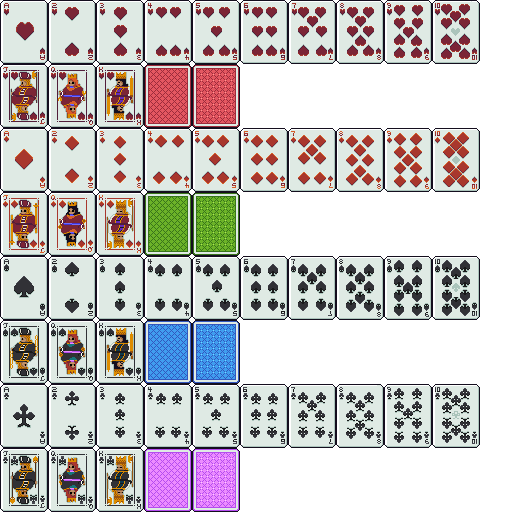
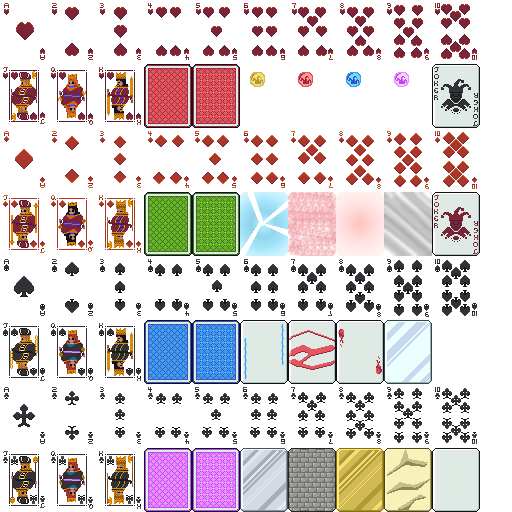
Add card enhancement rendering

diff --git a/gfx.c b/gfx.c
@@ -8,12 +8,21 @@
 #include "system.h"
 #include "text.h"
 
-void render_card(Suit suit, Rank rank, Rect *dst) {
-  Rect src = {.x = (rank % 10) * CARD_WIDTH,
-              .y = (2 * suit + floor(rank / 10.0)) * CARD_HEIGHT,
-              .w = CARD_WIDTH,
-              .h = CARD_HEIGHT};
-  draw_texture(state.cards_atlas, &src, dst);
+void render_card(Card *card, Rect *dst) {
+  Rect background = {.x = 9 * CARD_WIDTH, .y = 7 * CARD_HEIGHT, .w = CARD_WIDTH, .h = CARD_HEIGHT};
+  if (card->enhancement != ENHANCEMENT_NONE) {
+    uint8_t enhancement_offset = card->enhancement - 1;
+    background.x = (5 + enhancement_offset % 4) * CARD_WIDTH;
+    background.y = (5 + 2 * floor(enhancement_offset / 4.0)) * CARD_HEIGHT;
+  }
+  draw_texture(state.cards_atlas, &background, dst);
+
+  Rect face = {.x = (card->rank % 10) * CARD_WIDTH,
+               .y = (2 * card->suit + floor(card->rank / 10.0)) * CARD_HEIGHT,
+               .w = CARD_WIDTH,
+               .h = CARD_HEIGHT};
+  if (card->enhancement != ENHANCEMENT_STONE)
+    draw_texture(state.cards_atlas, &face, dst);
 }
 
 void render_hand(uint8_t hovered) {
@@ -34,11 +43,11 @@ void render_hand(uint8_t hovered) {
       dst.y -= 50;
     }
 
-    render_card(hand->cards[i].suit, hand->cards[i].rank, &dst);
+    render_card(&hand->cards[i], &dst);
   }
 
   render_card(
-      hand->cards[hovered].suit, hand->cards[hovered].rank,
+      &hand->cards[hovered],
       &(Rect){.x = SCREEN_WIDTH / 2.0 - hand_width / 2.0 + (CARD_WIDTH - 16) * hovered - CARD_WIDTH * 0.1,
               .y = SCREEN_HEIGHT - CARD_HEIGHT - 16 - CARD_HEIGHT * 0.1 - (hand->cards[hovered].selected == 1 ? 50 : 0),
               .w = CARD_WIDTH * 1.2,

diff --git a/gfx.h b/gfx.h
@@ -16,7 +16,7 @@
 #define SIDEBAR_WIDTH (100)
 #define SIDEBAR_GAP (4)
 
-void render_card(Suit suit, Rank rank, Rect *dst);
+void render_card(Card *card, Rect *dst);
 void render_hand(uint8_t hovered);
 
 void render_sidebar();
